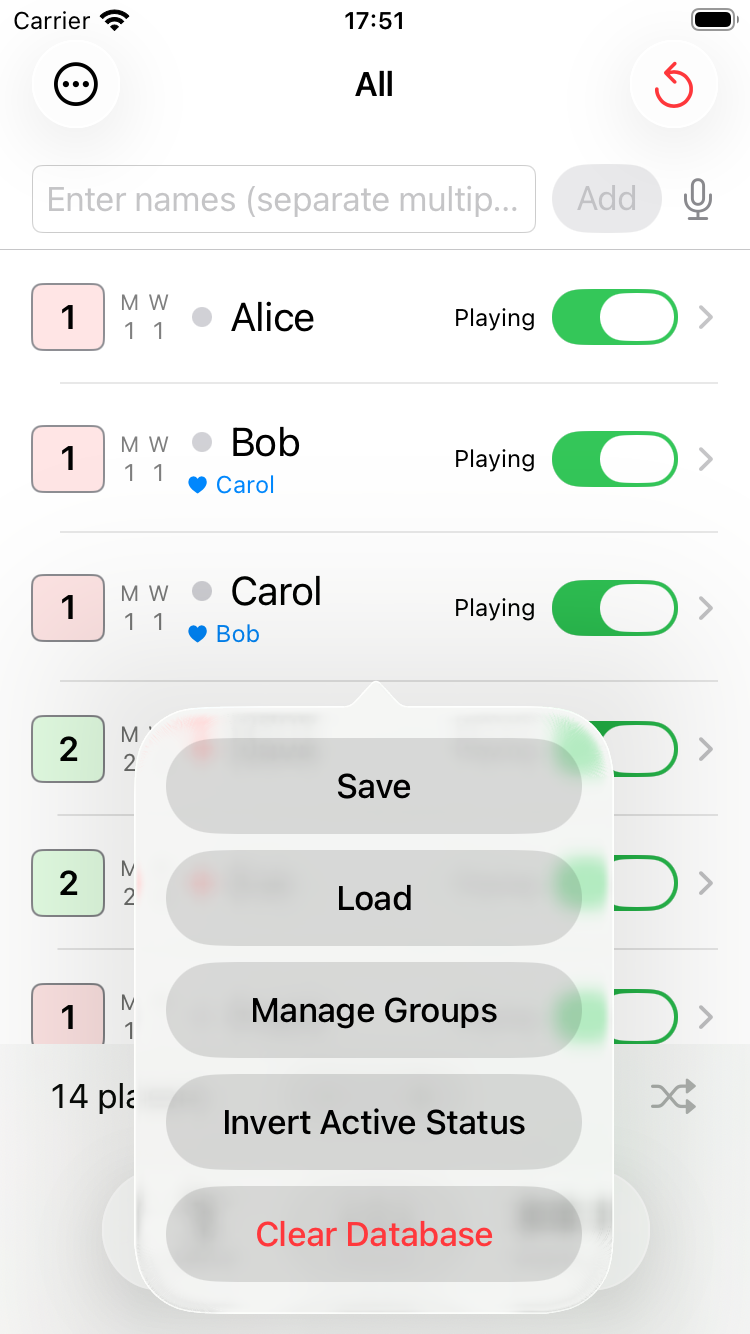
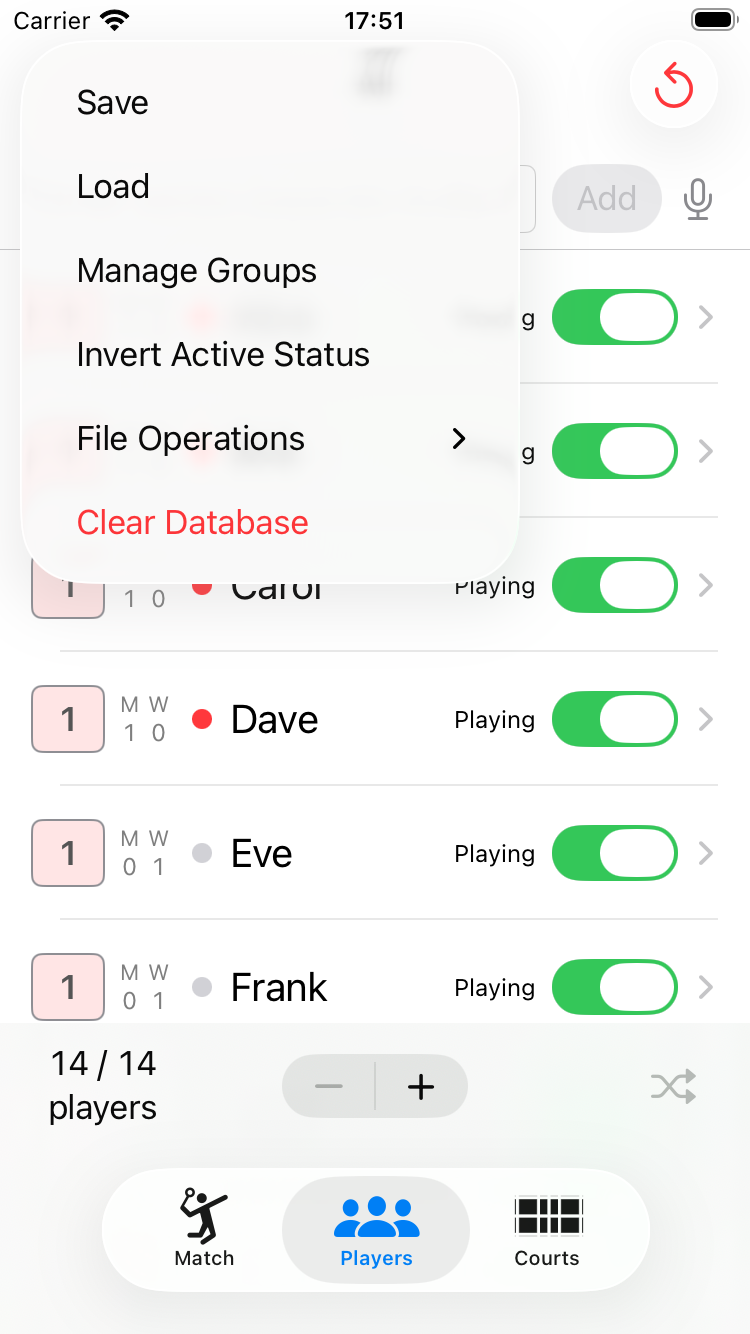
PairGen 1.24.0: プレイヤーデータのJSON書き出し・読み込み機能を反映

diff --git a/players-tab.html b/players-tab.html
@@ -40,6 +40,7 @@
   <li><a href="#save-load">11. メンバーを保存・読み込む</a>
     <ul>
       <li><a href="#groups">グループについて</a></li>
+      <li><a href="#file-operations">ファイルへの書き出し・読み込み</a></li>
     </ul>
   </li>
   <li><a href="#shuffle">12. 開始順をシャッフルする</a></li>
@@ -112,6 +113,7 @@
   <li><strong>Load</strong>（読込） — 保存したメンバーをグループ単位で読み込み</li>
   <li><strong>Manage Groups</strong>（グループ管理） — グループの追加・削除・名前変更</li>
   <li><strong>Invert Active Status</strong>（出場状態を反転） — 全員の出場・休憩状態を一括反転</li>
+  <li><strong>File Operations</strong>（ファイル操作） — メンバーデータベースをJSONファイルとして書き出し・読み込み（詳細は下記）</li>
   <li><strong>Clear Database</strong>（DBを全消去） — 保存したメンバーデータをすべて削除</li>
 </ul>
 <div class="ss"><img src="images/players-menu.png" alt="⋯ メニュー"></div>
@@ -125,6 +127,49 @@
 <div class="ss"><img src="images/players-group-assign.png" alt="プレイヤー編集画面の Group セクションでトグルをオン"></div>
 <p>グループを割り当てたら、<code>⋯</code> メニューの <strong>Save</strong>（保存）でメンバーデータベースに保存してください。</p>
 <div class="ss"><img src="images/players-group-select.png" alt="グループ選択画面"></div>
+
+<h3 id="file-operations">ファイルへの書き出し・読み込み</h3>
+<p><code>⋯</code> メニューの <strong>File Operations</strong>（ファイル操作）から、メンバーデータベース全体（すべてのグループ・すべてのプレイヤー）をJSONファイルとして書き出したり、書き出したファイルから読み込んだりできます。機種変更時のデータ移行や、パソコンなどでファイルを直接編集して一括登録したい場合に利用できます。</p>
+<ul>
+  <li><strong>Export to File</strong>（書き出し） — メンバーデータベース全体を <code>pairgen.json</code>（ファイル名は保存時に変更可能）として書き出し、Files アプリの保存先を選択します。</li>
+  <li><strong>Import from File</strong>（読み込み） — JSONファイルを選択すると内容を確認するダイアログが表示され、実行すると保存済みのメンバーデータベースと現在のプレイヤーリストが選択したファイルの内容に<strong>すべて置き換わります</strong>（既存データとのマージは行われません）。</li>
+</ul>
+<div class="note">⚠ 読み込んだファイルのJSONに構文の誤りや項目の不足がある場合は、原因箇所を示すエラーメッセージが表示され、読み込みは行われません。</div>
+
+<h4>pairgen.json の中身について</h4>
+<p><code>pairgen.json</code> はただのテキストファイルなので、パソコン・iPad・iPhoneのテキストエディタアプリ（メモ帳など）や、JSONを編集できるアプリで開いて直接編集できます。内容は次のような形式です。</p>
+<div class="tip">💡 ファイル名は <code>pairgen.json</code> がデフォルトですが、拡張子が <code>.json</code> であれば名前は自由に変更できます（Import から読み込む際もファイル名は問いません）。</div>
+<pre><code>{
+  "groups" : [
+    "月曜メンバー",
+    "土曜メンバー"
+  ],
+  "players" : [
+    {
+      "name" : "田中",
+      "groups" : [
+        "月曜メンバー"
+      ]
+    },
+    {
+      "name" : "鈴木",
+      "groups" : [
+        "月曜メンバー",
+        "土曜メンバー"
+      ]
+    },
+    {
+      "name" : "佐藤",
+      "groups" : [ ]
+    }
+  ]
+}</code></pre>
+<p>JSONでは空白・改行の入れ方は自由なので、上記と多少違う書き方をしても（1行にまとめる、インデント幅を変えるなど）、キー名と値さえ合っていれば問題なく読み込めます。</p>
+<ul>
+  <li><strong>groups</strong> — グループ名の一覧（配列）</li>
+  <li><strong>players</strong> — プレイヤーの一覧（配列）。1人につき <strong>name</strong>（名前）と <strong>groups</strong>（所属グループ名。<code>groups</code> の一覧に含まれる名前を指定。どのグループにも属さない場合は空の配列 <code>[ ]</code>）を指定</li>
+</ul>
+<div class="tip">💡 表計算ソフトなどでメンバー一覧を管理している場合も、この形式に沿って書き出せば読み込ませることができます。</div>
 
 <h2 id="shuffle">12. 開始順をシャッフルする</h2>
 <p>組み合わせはプレイヤーリストの並び順をもとに決まります。同じメンバーで練習を重ねていると、Match タブの <code>↩</code> でゲームを初期化するたびに、毎回同じ組み合わせから始まってしまうことがあります。Players タブ下部のシャッフルアイコン（🔀）をタップすると、プレイヤーの名前・レベル・出場設定などをリスト内でランダムに入れ替え、次の組み合わせの偏りを防げます。</p>

diff --git a/home.html b/home.html
@@ -28,7 +28,7 @@
 <body>
 
 <h1>くみあぷ（PairGen）</h1>
-<p><span class="badge">v1.23.0</span></p>
+<p><span class="badge">v1.24.0</span></p>
 <div class="note">⚠ This help is available in Japanese only. Please use your browser's auto-translate feature.</div>
 <p>PairGen はバドミントンなどのダブルス競技向けに、組み合わせを自動生成する iOS アプリです（Android 版も公開中）。参加人数とコート数を設定するだけで、重複を最小限に抑えた組み合わせをすぐに生成できます。</p>
 
@@ -82,6 +82,7 @@
   <li>プレイヤー写真の登録</li>
   <li>メンバーの保存・グループ管理</li>
   <li>プレイヤー一覧に現在出場中かどうかを示す丸印を表示し、タップして「ピン留め」すると次の組み合わせで最優先に出場</li>
+  <li>プレイヤー・グループの情報をJSONファイルとして書き出し／読み込み（機種変更時のデータ移行や、手元での一括編集に）</li>
 </ul>
 
 <h3>コート管理</h3>
@@ -115,14 +116,10 @@
   <li>ヘルプページは日本語で提供しています。ブラウザの自動翻訳機能をご利用ください。</li>
 </ul>
 
-<h2>バージョン 1.23.0 更新内容</h2>
+<h2>バージョン 1.24.0 更新内容</h2>
 <ul>
-  <li>ヘルプページのホームに使い方動画を追加。後にShorts版に差し替えて縦長レイアウトに対応し、プライバシー保護のためYouTube埋め込みをyoutube-nocookie.com経由に変更</li>
-  <li>一度組み合わせを生成すると、既存の組み合わせとの整合性を保つため、プレイヤー数・コート数を生成時点の人数・面数より減らせないように変更（試合タブ・プレイヤータブ・コートタブの <code>−</code> ボタン、スワイプ削除に適用。試合結果をリセットすると再び自由に増減できます）</li>
-  <li>iCloud同期したグループ名（All・Unaffiliated）が、保存時と異なる言語設定の端末で翻訳されずに表示されることがある不具合を修正</li>
-  <li>プレイヤー一覧のピン留め表示を強調し、ピン留め中は出場状態を「休憩」に変更できないように変更（解除するには先にピンを外す必要があります）</li>
-  <li>固定ペアの配色、フリーモードのコート色、プレイヤー編集画面のレイアウトなど、見た目を細かく改善</li>
-  <li>プレイヤー編集画面のゴミ箱アイコンで削除すると、一覧に戻らずそのまま次（末尾を削除した場合は前）のプレイヤーの編集画面に切り替わるように変更</li>
+  <li>プレイヤータブのメニューに「File Operations」を追加。プレイヤー・グループの情報をJSONファイル（pairgen.json）として書き出したり、書き出したファイルから読み込んだりできるようになりました（読み込みは保存済みのメンバーデータベース・現在のプレイヤー一覧を丸ごと置き換えます）</li>
+  <li>読み込んだファイルのJSONに誤りがある場合、構文エラー・項目不足などの原因箇所を具体的に示すエラーメッセージを表示するように対応</li>
 </ul>
 
 <h2>フィードバック</h2>

diff --git a/index.html b/index.html
@@ -28,7 +28,7 @@
 <body>
 
 <h1>くみあぷ（PairGen）</h1>
-<p><span class="badge">v1.23.0</span></p>
+<p><span class="badge">v1.24.0</span></p>
 <div class="note">⚠ This help is available in Japanese only. Please use your browser's auto-translate feature.</div>
 <p>PairGen はバドミントンなどのダブルス競技向けに、組み合わせを自動生成する iOS アプリです（Android 版も公開中）。参加人数とコート数を設定するだけで、重複を最小限に抑えた組み合わせをすぐに生成できます。</p>
 
@@ -82,6 +82,7 @@
   <li>プレイヤー写真の登録</li>
   <li>メンバーの保存・グループ管理</li>
   <li>プレイヤー一覧に現在出場中かどうかを示す丸印を表示し、タップして「ピン留め」すると次の組み合わせで最優先に出場</li>
+  <li>プレイヤー・グループの情報をJSONファイルとして書き出し／読み込み（機種変更時のデータ移行や、手元での一括編集に）</li>
 </ul>
 
 <h3>コート管理</h3>
@@ -115,14 +116,10 @@
   <li>ヘルプページは日本語で提供しています。ブラウザの自動翻訳機能をご利用ください。</li>
 </ul>
 
-<h2>バージョン 1.23.0 更新内容</h2>
+<h2>バージョン 1.24.0 更新内容</h2>
 <ul>
-  <li>ヘルプページのホームに使い方動画を追加。後にShorts版に差し替えて縦長レイアウトに対応し、プライバシー保護のためYouTube埋め込みをyoutube-nocookie.com経由に変更</li>
-  <li>一度組み合わせを生成すると、既存の組み合わせとの整合性を保つため、プレイヤー数・コート数を生成時点の人数・面数より減らせないように変更（試合タブ・プレイヤータブ・コートタブの <code>−</code> ボタン、スワイプ削除に適用。試合結果をリセットすると再び自由に増減できます）</li>
-  <li>iCloud同期したグループ名（All・Unaffiliated）が、保存時と異なる言語設定の端末で翻訳されずに表示されることがある不具合を修正</li>
-  <li>プレイヤー一覧のピン留め表示を強調し、ピン留め中は出場状態を「休憩」に変更できないように変更（解除するには先にピンを外す必要があります）</li>
-  <li>固定ペアの配色、フリーモードのコート色、プレイヤー編集画面のレイアウトなど、見た目を細かく改善</li>
-  <li>プレイヤー編集画面のゴミ箱アイコンで削除すると、一覧に戻らずそのまま次（末尾を削除した場合は前）のプレイヤーの編集画面に切り替わるように変更</li>
+  <li>プレイヤータブのメニューに「File Operations」を追加。プレイヤー・グループの情報をJSONファイル（pairgen.json）として書き出したり、書き出したファイルから読み込んだりできるようになりました（読み込みは保存済みのメンバーデータベース・現在のプレイヤー一覧を丸ごと置き換えます）</li>
+  <li>読み込んだファイルのJSONに誤りがある場合、構文エラー・項目不足などの原因箇所を具体的に示すエラーメッセージを表示するように対応</li>
 </ul>
 
 <h2>フィードバック</h2>

diff --git a/update-history.html b/update-history.html
@@ -16,6 +16,12 @@
 <p class="back-link"><a href="home.html">← ホームに戻る</a></p>
 <h1>更新履歴</h1>
 
+<h2>v1.24.0</h2>
+<ul>
+  <li>プレイヤータブのメニューに「File Operations」を追加。プレイヤー・グループの情報をJSONファイル（pairgen.json）として書き出したり、書き出したファイルから読み込んだりできるようになりました（読み込みは保存済みのメンバーデータベース・現在のプレイヤー一覧を丸ごと置き換えます）</li>
+  <li>読み込んだファイルのJSONに誤りがある場合、構文エラー・項目不足などの原因箇所を具体的に示すエラーメッセージを表示するように対応</li>
+</ul>
+
 <h2>v1.23.0</h2>
 <ul>
   <li>ヘルプページのホームに使い方動画を追加。後にShorts版に差し替えて縦長レイアウトに対応し、プライバシー保護のためYouTube埋め込みをyoutube-nocookie.com経由に変更</li>

diff --git a/reverse-lookup.html b/reverse-lookup.html
@@ -28,6 +28,8 @@
   <li><a href="players-tab.html#status">誰が今試合中か、休憩中かを一目で知りたい</a></li>
   <li><a href="players-tab.html#save-load">名簿を保存して次回も使い回したい</a></li>
   <li><a href="players-tab.html#groups">曜日や練習会ごとにメンバーを分けて管理したい</a></li>
+  <li><a href="players-tab.html#file-operations">機種変更や引っ越しでプレイヤー・グループのデータを移行したい</a></li>
+  <li><a href="players-tab.html#file-operations">プレイヤー一覧をパソコンなどでまとめて編集したい</a></li>
   <li><a href="players-tab.html#reorder">組み合わせの優先順位を来た順にしたい</a></li>
 </ul>
 
